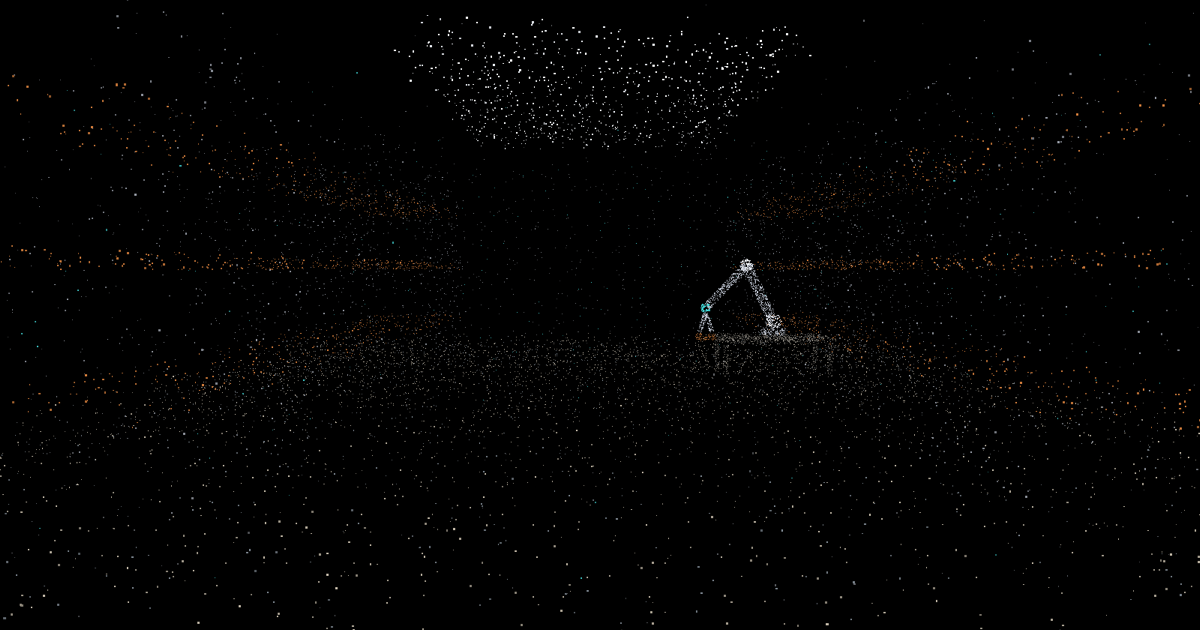
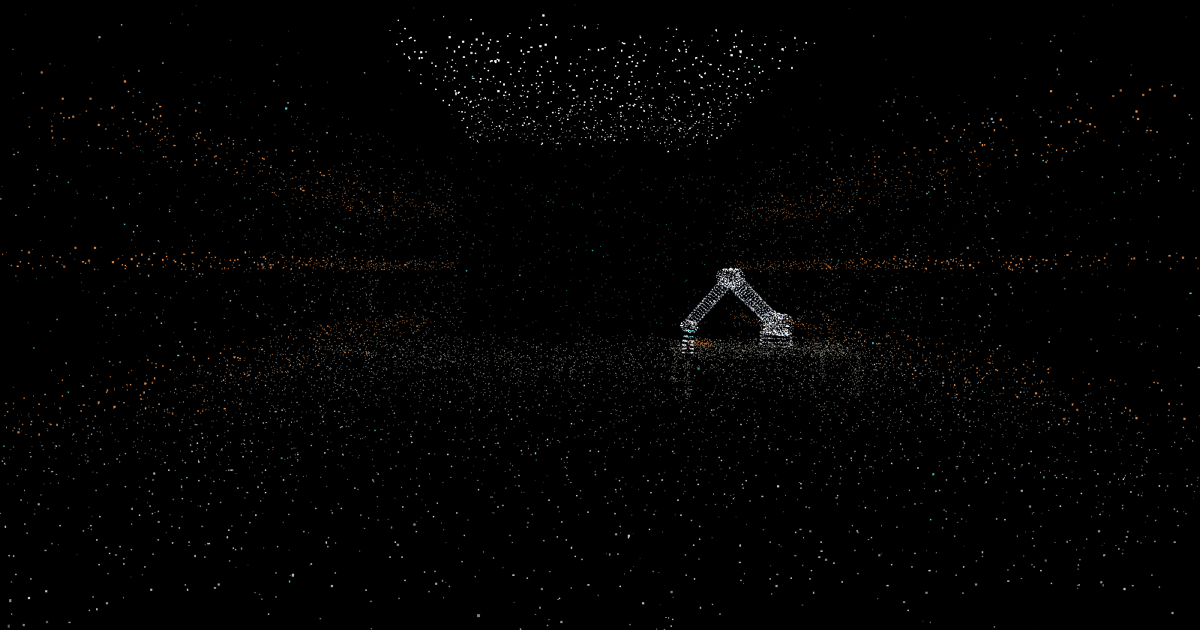
Articulated cobot arm with working joint motion

diff --git a/js/hero.js b/js/hero.js
@@ -34,46 +34,16 @@ export function start(container, opts) {
   /* Coordinates mirror the approved comp: x right, y up, depth away from
      camera. The cloud group sits at Z=-700 and sways around its own axis. */
   var D = 2; /* density factor → ~13k points */
-  var pos = [], col = [], size = [], amp = [], seed = [], armLever = [];
+  var pos = [], col = [], size = [], amp = [], seed = [];
 
   function rnd(a, b) { return a + Math.random() * (b - a); }
-  function pt(x, yDown, zMock, r, g, b, s, driftAmp, vMin, vMax, lever) {
+  function pt(x, yDown, zMock, r, g, b, s, driftAmp, vMin, vMax) {
     pos.push(x, -yDown, -zMock);
     var v = rnd(vMin === undefined ? 0.55 : vMin, vMax === undefined ? 1.0 : vMax);
     col.push(r / 255 * v, g / 255 * v, b / 255 * v);
     size.push(s);
     amp.push(driftAmp || 0);
     seed.push(Math.random());
-    armLever.push(lever || 0);
-  }
-
-  /* dense scatter primitives for the manipulator: points hug the surface
-     of a tube so the silhouette stays crisp at sparse density */
-  function capsule(a, b, r, n, c, vMin, vMax, levA, levB) {
-    var dx = b[0] - a[0], dy = b[1] - a[1], dz = b[2] - a[2];
-    var len = Math.sqrt(dx * dx + dy * dy + dz * dz) || 1;
-    var ux = dx / len, uy = dy / len, uz = dz / len;
-    for (var k = 0; k < n; k++) {
-      var f = Math.random();
-      /* random vector minus its axial component → perpendicular offset */
-      var ox = rnd(-1, 1), oy = rnd(-1, 1), oz = rnd(-1, 1);
-      var dot = ox * ux + oy * uy + oz * uz;
-      ox -= dot * ux; oy -= dot * uy; oz -= dot * uz;
-      var m = Math.sqrt(ox * ox + oy * oy + oz * oz) || 1;
-      var rr = r * (0.65 + 0.35 * Math.random());
-      pt(a[0] + dx * f + ox / m * rr, a[1] + dy * f + oy / m * rr, a[2] + dz * f + oz / m * rr,
-         c[0], c[1], c[2], rnd(.7, 1.2), 0, vMin, vMax,
-         levA === undefined ? 0 : levA + (levB - levA) * f);
-    }
-  }
-  function blob(cen, r, n, c, vMin, vMax, lev) {
-    for (var k = 0; k < n; k++) {
-      var ox = rnd(-1, 1), oy = rnd(-1, 1), oz = rnd(-1, 1);
-      var m = Math.sqrt(ox * ox + oy * oy + oz * oz) || 1;
-      var rr = r * (0.7 + 0.3 * Math.random());
-      pt(cen[0] + ox / m * rr, cen[1] + oy / m * rr, cen[2] + oz / m * rr,
-         c[0], c[1], c[2], rnd(.75, 1.25), 0, vMin, vMax, lev || 0);
-    }
   }
 
   var i, rx, ry, side;
@@ -102,29 +72,15 @@ export function start(container, opts) {
   /* teal instrument accents */
   for (i = 0; i < 120 * D; i++) pt(rnd(-700, 700), rnd(-260, 240), rnd(-400, 800), 62, 198, 198, rnd(.4, 1.0));
 
-  /* ---- the manipulator: one robot arm at a workbench, the room's actor ----
-     Densest, brightest object in the scene so it reads first. The forearm
-     assembly carries a lever weight (aArm) driving a ~20s breathing arc. */
-  var STEEL = [190, 196, 208], JOINT = [228, 232, 242], BENCH = [152, 147, 138], TEAL = [62, 198, 198], WARM = [205, 122, 58];
-  /* workbench: top slab + legs */
-  for (i = 0; i < 620; i++) pt(rnd(240, 460), 100 + rnd(0, 12), rnd(220, 300), BENCH[0], BENCH[1], BENCH[2], rnd(.6, 1.0), 0, .6, .95);
-  [[248, 228], [452, 228], [248, 292], [452, 292]].forEach(function (leg) {
-    capsule([leg[0], 112, leg[1]], [leg[0], 178, leg[1]], 5, 60, BENCH, .55, .85);
+  /* ---- workbench for the manipulator (the arm itself is articulated,
+     built as its own point objects after the material exists) ---- */
+  var BENCH = [152, 147, 138], WARM = [205, 122, 58];
+  for (i = 0; i < 850; i++) pt(rnd(130, 430), 100 + rnd(0, 12), rnd(60, 200), BENCH[0], BENCH[1], BENCH[2], rnd(.6, 1.0), 0, .6, .95);
+  [[142, 72], [418, 72], [142, 188], [418, 188]].forEach(function (leg) {
+    for (var k = 0; k < 70; k++) pt(leg[0] + rnd(-5, 5), rnd(112, 178), leg[1] + rnd(-5, 5), BENCH[0], BENCH[1], BENCH[2], rnd(.55, .9), 0, .55, .85);
   });
-  /* base plate + shoulder */
-  capsule([350, 100, 260], [350, 86, 260], 24, 150, STEEL, .7, 1.0);
-  blob([350, 72, 260], 16, 160, JOINT, .85, 1.2);
-  /* upper link → elbow: high apex */
-  capsule([350, 72, 260], [287, -38, 240], 10, 420, STEEL, .75, 1.1);
-  blob([287, -38, 240], 13, 150, JOINT, .85, 1.2);
-  /* forearm → wrist (breathing assembly): wide reach left */
-  capsule([287, -38, 240], [205, 42, 220], 8, 400, STEEL, .75, 1.1, 0, .6);
-  blob([205, 42, 220], 10, 120, TEAL, .9, 1.15, .65);
-  /* gripper prongs */
-  capsule([205, 52, 220], [193, 88, 214], 4.5, 90, STEEL, .8, 1.15, .8, 1);
-  capsule([205, 52, 220], [219, 88, 226], 4.5, 90, STEEL, .8, 1.15, .8, 1);
-  /* the workpiece on the bench, under the gripper */
-  for (i = 0; i < 80; i++) pt(rnd(187, 227), rnd(92, 104), rnd(212, 232), WARM[0], WARM[1], WARM[2], rnd(.6, 1.0), 0, .7, 1.0);
+  /* the workpiece on the bench, in the gripper's work zone */
+  for (i = 0; i < 90; i++) pt(rnd(155, 195), rnd(90, 102), rnd(115, 155), WARM[0], WARM[1], WARM[2], rnd(.6, 1.0), 0, .7, 1.0);
   /* drifting dust — atmosphere, must stay quieter than structure */
   for (i = 0; i < 950 * D; i++) pt(rnd(-900, 900), rnd(-320, 250), rnd(-500, 900), 200, 205, 215, rnd(.3, .7), rnd(2, 5), .3, .6);
 
@@ -134,7 +90,6 @@ export function start(container, opts) {
   geo.setAttribute('aSize', new THREE.Float32BufferAttribute(size, 1));
   geo.setAttribute('aAmp', new THREE.Float32BufferAttribute(amp, 1));
   geo.setAttribute('aSeed', new THREE.Float32BufferAttribute(seed, 1));
-  geo.setAttribute('aArm', new THREE.Float32BufferAttribute(armLever, 1));
 
   var touchy = !opts.poster && window.matchMedia && matchMedia('(pointer: coarse)').matches;
   var uniforms = {
@@ -155,7 +110,6 @@ export function start(container, opts) {
       'attribute float aSize;',
       'attribute float aAmp;',
       'attribute float aSeed;',
-      'attribute float aArm;',
       'uniform float uTime;',
       'uniform float uDPR;',
       'uniform vec3 uPointer;',
@@ -169,9 +123,6 @@ export function start(container, opts) {
       /* dust drift, structure stays still */
       '  wp.y += sin(uTime * 0.4 + aSeed * 6.2831) * aAmp;',
       '  wp.x += cos(uTime * 0.27 + aSeed * 4.7) * aAmp * 0.6;',
-      /* the arm breathes: forearm assembly rises through a slow shallow arc */
-      '  wp.y += sin(uTime * 0.25) * aArm * 6.0;',
-      '  wp.x -= (1.0 - cos(uTime * 0.25)) * aArm * 1.5;',
       /* local deformation under the pointer, springs back via uStrength */
       '  vec3 d = wp.xyz - uPointer;',
       '  float dist = length(d);',
@@ -193,6 +144,81 @@ export function start(container, opts) {
   group.position.set(0, 0, -700);
   group.add(cloud);
   scene.add(group);
+
+  /* ---- the manipulator: a UR-style cobot as an articulated joint chain.
+     Each link is its own Points object of ring-sampled cylinders (the rings
+     read as a scanned machine), parented into an FK hierarchy so the arm
+     genuinely moves: base yaw sweeps, elbow flexes, gripper stays low. ---- */
+  var STEEL = [190, 196, 208], JOINT2 = [230, 234, 244], TEAL2 = [62, 198, 198];
+
+  function partArrays() { return { pos: [], col: [], size: [], amp: [], seed: [] }; }
+  function partPush(A, x, y, z, c, vMin, vMax, s) {
+    A.pos.push(x, y, z);
+    var v = rnd(vMin, vMax);
+    A.col.push(c[0] / 255 * v, c[1] / 255 * v, c[2] / 255 * v);
+    A.size.push(s || rnd(.8, 1.3));
+    A.amp.push(0);
+    A.seed.push(Math.random());
+  }
+  /* cylinder as stacked rings along a local axis, centered at (ox,oy,oz) */
+  function ringCyl(A, axis, ox, oy, oz, r, len, c, vMin, vMax) {
+    var nRings = Math.max(2, Math.round(len / 5));
+    var perRing = Math.max(10, Math.round(r * 1.6));
+    for (var q = 0; q < nRings; q++) {
+      var a = -len / 2 + len * q / (nRings - 1);
+      for (var k = 0; k < perRing; k++) {
+        var ang = (k / perRing) * 6.2832 + rnd(-.12, .12);
+        var rr = r * rnd(.94, 1.05);
+        var u = Math.cos(ang) * rr, w = Math.sin(ang) * rr;
+        if (axis === 'y') partPush(A, ox + u, oy + a, oz + w, c, vMin, vMax);
+        else if (axis === 'z') partPush(A, ox + u, oy + w, oz + a, c, vMin, vMax);
+        else partPush(A, ox + a, oy + u, oz + w, c, vMin, vMax);
+      }
+    }
+  }
+  function toPoints(A) {
+    var g2 = new THREE.BufferGeometry();
+    g2.setAttribute('position', new THREE.Float32BufferAttribute(A.pos, 3));
+    g2.setAttribute('aColor', new THREE.Float32BufferAttribute(A.col, 3));
+    g2.setAttribute('aSize', new THREE.Float32BufferAttribute(A.size, 1));
+    g2.setAttribute('aAmp', new THREE.Float32BufferAttribute(A.amp, 1));
+    g2.setAttribute('aSeed', new THREE.Float32BufferAttribute(A.seed, 1));
+    return new THREE.Points(g2, mat);
+  }
+
+  /* bench top is at mock yDown 100, z 140 → local (x, -100, -140) */
+  var armRoot = new THREE.Group();
+  armRoot.position.set(310, -100, -140);
+  group.add(armRoot);
+
+  var j1 = new THREE.Group(); armRoot.add(j1);            /* base yaw */
+  var A_base = partArrays();
+  ringCyl(A_base, 'y', 0, 10, 0, 26, 20, STEEL, .7, 1.0); /* pedestal */
+  ringCyl(A_base, 'y', 0, 26, 0, 20, 14, JOINT2, .8, 1.15); /* shoulder drum */
+  j1.add(toPoints(A_base));
+
+  var j2 = new THREE.Group(); j2.position.set(0, 36, 0); j1.add(j2); /* shoulder pitch */
+  var A_upper = partArrays();
+  ringCyl(A_upper, 'z', 0, 0, 0, 18, 44, JOINT2, .8, 1.2);  /* shoulder knuckle */
+  ringCyl(A_upper, 'y', 0, 62, 0, 12.5, 116, STEEL, .75, 1.1); /* upper tube */
+  j2.add(toPoints(A_upper));
+
+  var j3 = new THREE.Group(); j3.position.set(0, 122, 0); j2.add(j3); /* elbow */
+  var A_fore = partArrays();
+  ringCyl(A_fore, 'z', 0, 0, 0, 15, 38, JOINT2, .8, 1.2);   /* elbow knuckle */
+  ringCyl(A_fore, 'y', 0, 54, 0, 9.5, 100, STEEL, .75, 1.1); /* forearm tube */
+  j3.add(toPoints(A_fore));
+
+  var j4 = new THREE.Group(); j4.position.set(0, 106, 0); j3.add(j4); /* wrist */
+  var A_wrist = partArrays();
+  ringCyl(A_wrist, 'z', 0, 4, 0, 9, 24, JOINT2, .8, 1.2);   /* wrist knuckle */
+  ringCyl(A_wrist, 'y', 0, 16, 0, 8, 10, TEAL2, .9, 1.15);  /* teal collar */
+  ringCyl(A_wrist, 'y', 0, 25, 0, 7, 8, STEEL, .8, 1.15);   /* palm */
+  ringCyl(A_wrist, 'y', -7, 38, 0, 2.8, 20, STEEL, .8, 1.2); /* finger */
+  ringCyl(A_wrist, 'y', 7, 38, 0, 2.8, 20, STEEL, .8, 1.2);  /* finger */
+  j4.add(toPoints(A_wrist));
+
+  var arm = { j1: j1, j2: j2, j3: j3, j4: j4 };
 
   /* ---------- pointer → world point on the cloud plane ---------- */
   var pointerTarget = new THREE.Vector3(1e5, 1e5, -700);
@@ -284,7 +310,7 @@ export function start(container, opts) {
   var introPlayed = false; /* if the tab loads hidden, replay the settle on first view */
   var stats = { frames: 0, since: performance.now() };
   window.__heroStats = stats;
-  window.__hero = { renderer: renderer, scene: scene, camera: camera, uniforms: uniforms, group: group };
+  window.__hero = { renderer: renderer, scene: scene, camera: camera, uniforms: uniforms, group: group, arm: arm };
 
   function frame() {
     if (!running) return;
@@ -295,6 +321,12 @@ export function start(container, opts) {
     strengthTarget = (performance.now() - lastMove < 120) ? 1 : 0;
     uniforms.uStrength.value += (strengthTarget - uniforms.uStrength.value) * 0.1;
     uniforms.uPointer.value.lerp(pointerTarget, 0.18);
+
+    /* the arm works: slow base sweep, gentle elbow flex, gripper kept low */
+    arm.j1.rotation.y = 0.25 + Math.sin(t * 2.1) * 0.38;
+    arm.j2.rotation.z = 0.85 + Math.sin(t * 1.5 + 1.2) * 0.05;
+    arm.j3.rotation.z = 1.52 + Math.sin(t * 2.6 + 0.5) * 0.10;
+    arm.j4.rotation.z = 0.72 - Math.sin(t * 2.6 + 0.5) * 0.08;
 
     var introK = Math.min(1, (performance.now() - introStart) / 3000);
     if (introK < 1) introPlayed = true;
@@ -328,6 +360,10 @@ export function start(container, opts) {
   if (opts.poster) {
     /* deterministic single frame for the build-time poster capture */
     group.rotation.y = 0.02;
+    arm.j1.rotation.y = 0.25;
+    arm.j2.rotation.z = 0.85;
+    arm.j3.rotation.z = 1.52;
+    arm.j4.rotation.z = 0.72;
     renderer.render(scene, camera);
     window.__posterReady = true;
     return renderer.domElement;